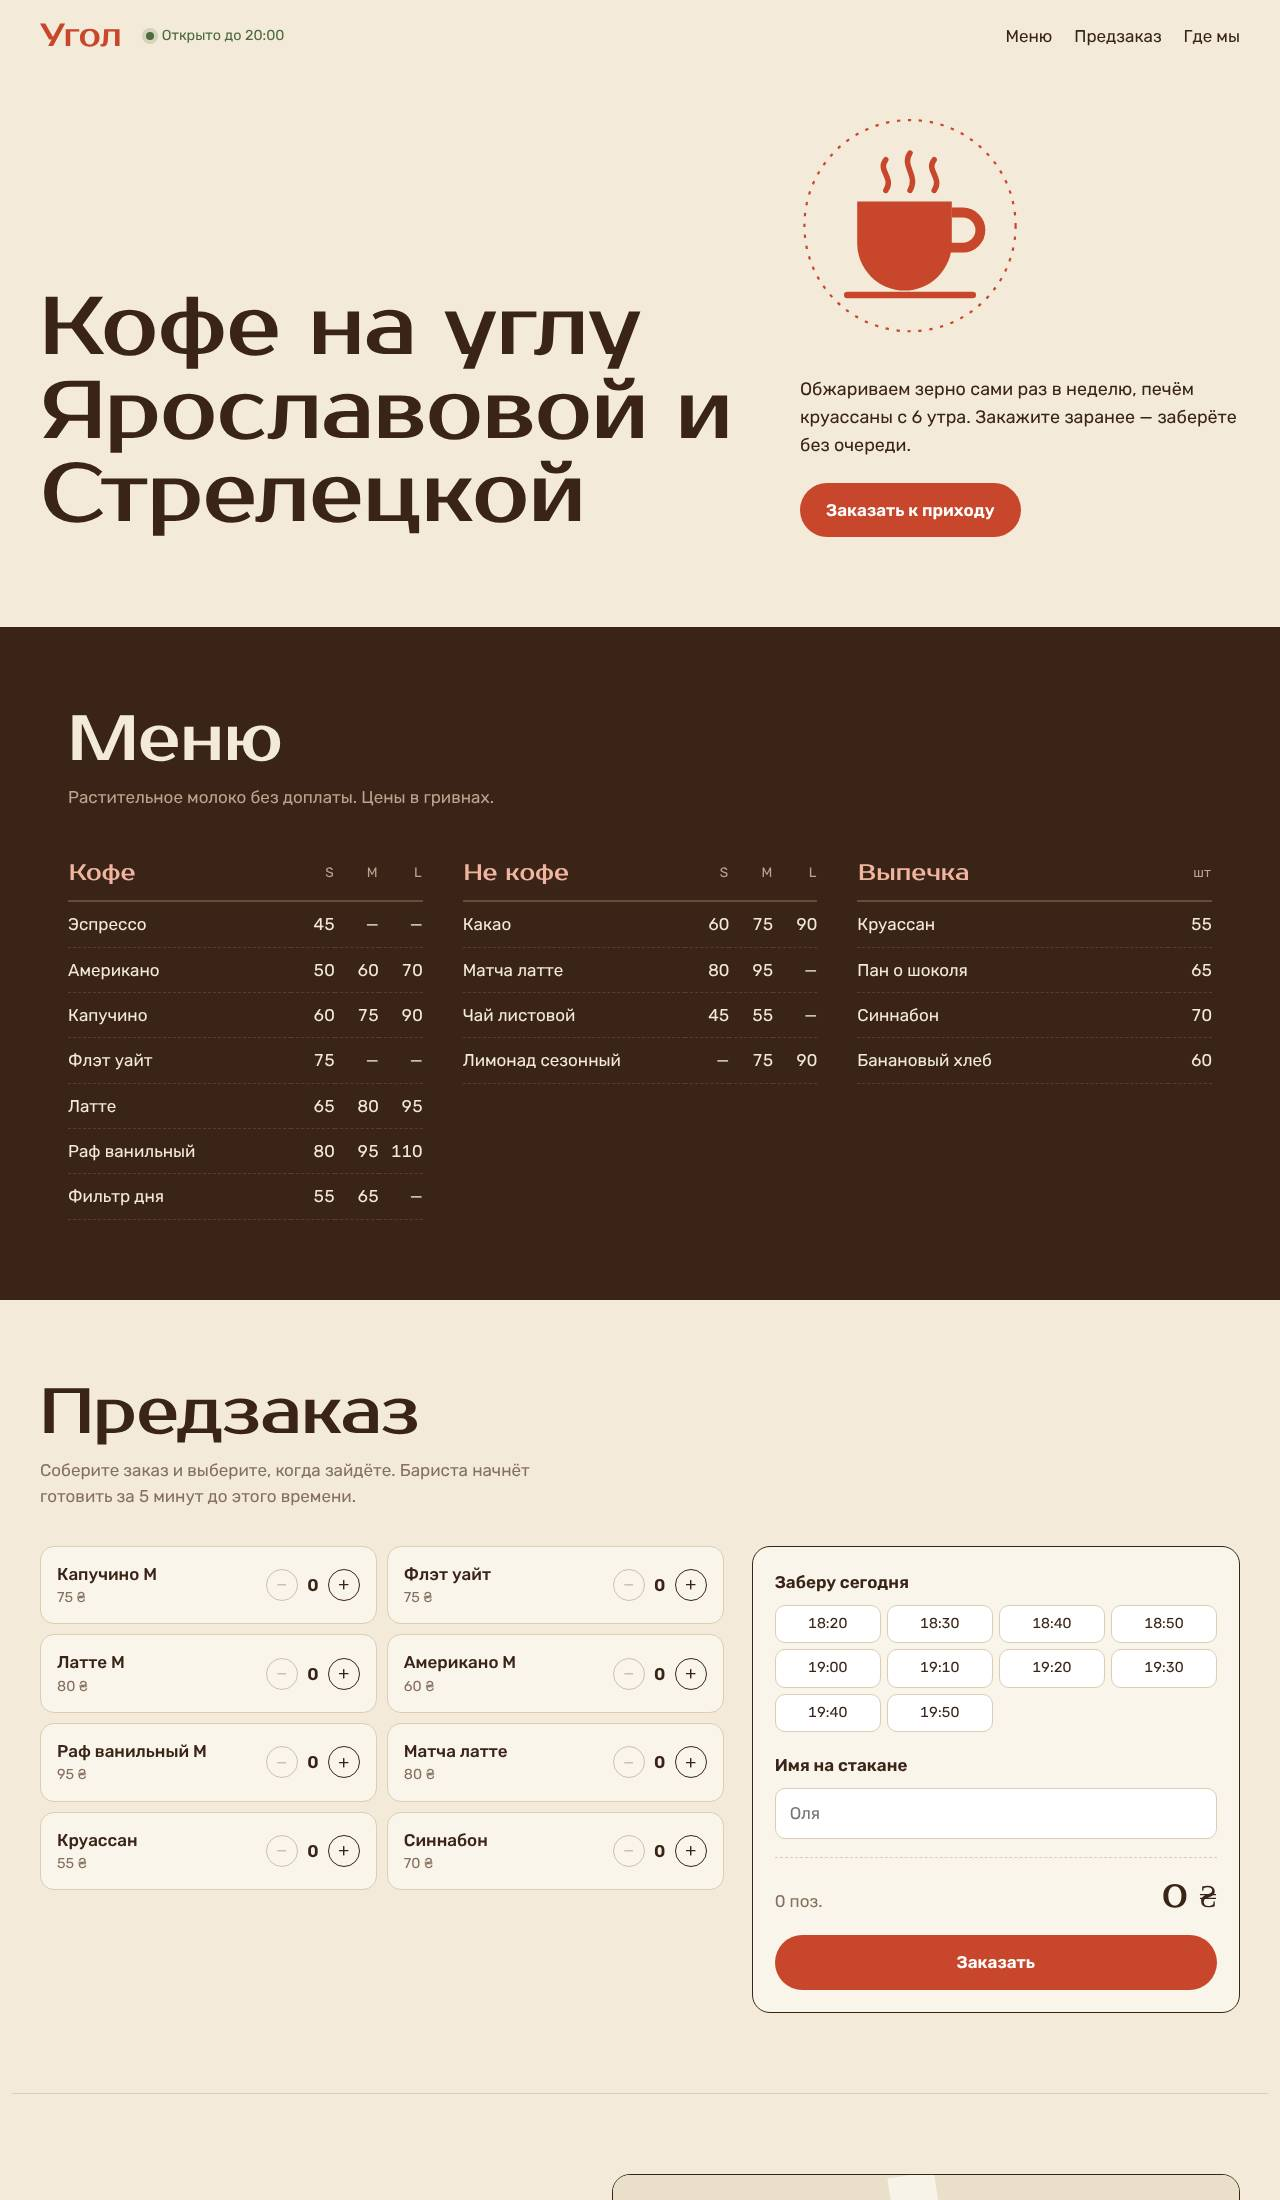
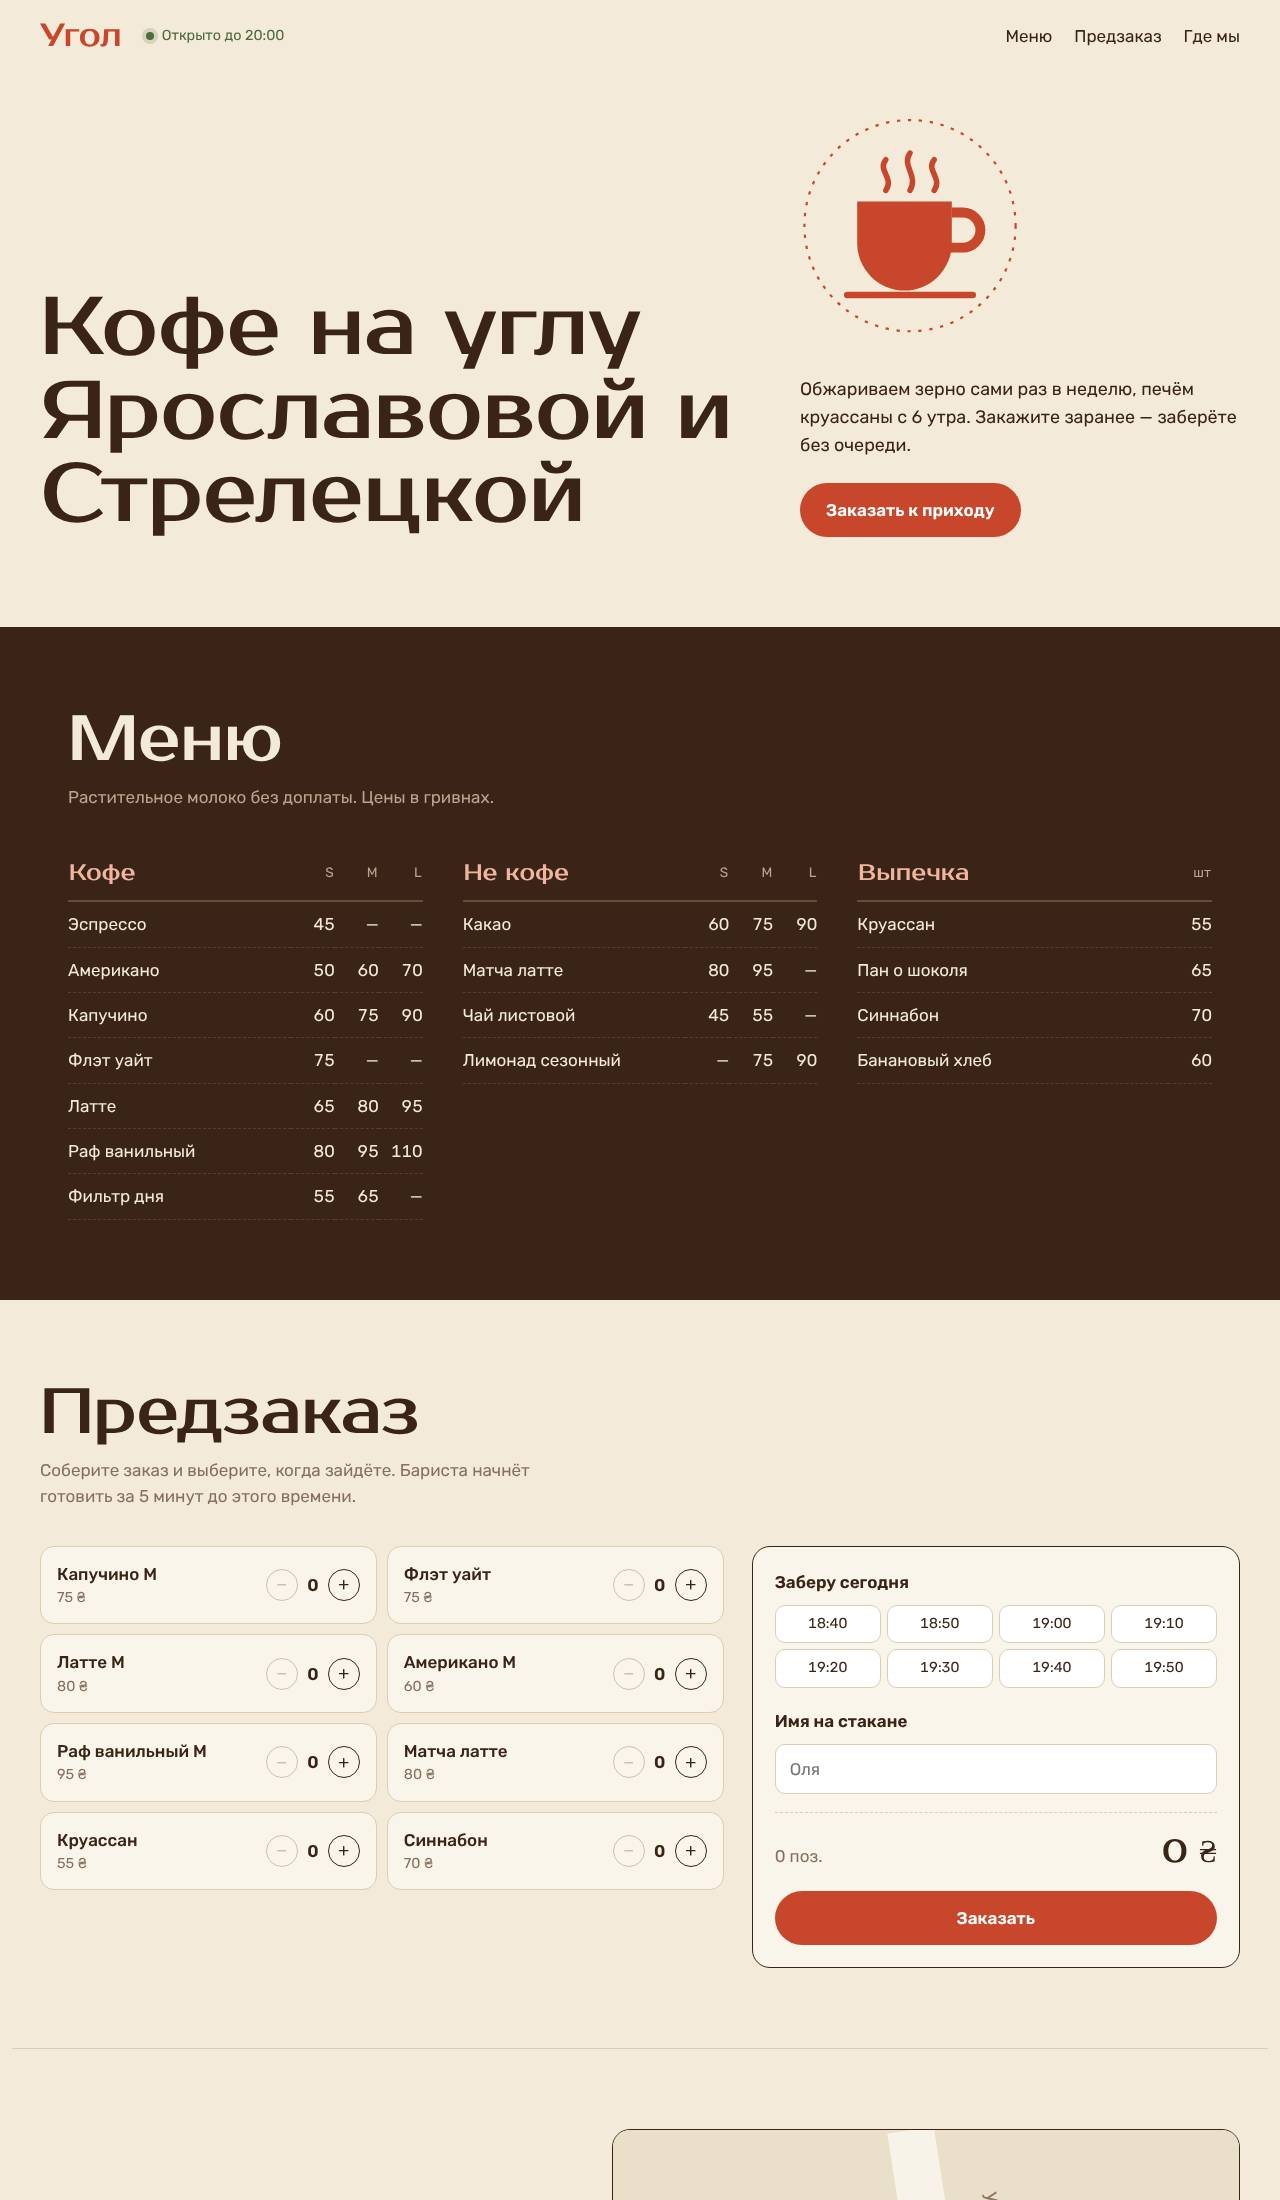
Готовность к запуску: .env.example, запасной вариант без базы, инструкция деплоя
Без Supabase форма заявки и вход не падают, а предлагают написать в Telegram.

Claude-Session: https://claude.ai/code/session_01SySj1XcUaRAcxcRqW1wABw

Changed region(s): [[0.5938, 0.7727, 0.9688, 0.9273], [0.6875, 0.9891, 0.75, 1.0]]

diff --git a/app/api/book/route.js b/app/api/book/route.js
@@ -5,10 +5,12 @@ import { fieldByColumn } from '@/lib/fields';
 import { createPending } from '@/lib/bookings';
 import { canSend, issueToken } from '@/lib/auth';
 import { sendMagicLink } from '@/lib/mailer';
+import { engineReady } from '@/lib/ready';
 
 const T = config.texts;
 
 export async function POST(req) {
+  if (!engineReady()) return NextResponse.json({ error: T.unavailable }, { status: 503 });
   const body = await req.json().catch(() => ({}));
   const { ok, errors, clean } = validate(body);
   if (!ok) return NextResponse.json({ error: T.checkFields, errors }, { status: 400 });
@@ -16,7 +18,11 @@ export async function POST(req) {
   const email = clean[fieldByColumn('email').key];
   if (!(await canSend(email))) return NextResponse.json({ error: T.rateLimited }, { status: 429 });
 
-  const res = await createPending(clean);
+  let res;
+  try { res = await createPending(clean); } catch (e) {
+    console.error(e);
+    return NextResponse.json({ error: T.unavailable }, { status: 503 });
+  }
   if (res.error) return NextResponse.json({ error: res.error }, { status: res.http });
 
   try {

diff --git a/app/api/auth/login/route.js b/app/api/auth/login/route.js
@@ -2,11 +2,13 @@ import { NextResponse } from 'next/server';
 import config from '@/engine.config';
 import { canSend, issueToken } from '@/lib/auth';
 import { sendMagicLink } from '@/lib/mailer';
+import { engineReady } from '@/lib/ready';
 
 const T = config.texts;
 const EMAIL = /^[^\s@]+@[^\s@]+\.[^\s@]{2,}$/;
 
 export async function POST(req) {
+  if (!engineReady()) return NextResponse.json({ error: T.unavailable }, { status: 503 });
   const { email: raw } = await req.json().catch(() => ({}));
   const email = String(raw || '').trim().toLowerCase();
   if (!EMAIL.test(email)) return NextResponse.json({ error: T.invalidEmail }, { status: 400 });

diff --git a/app/api/slots/route.js b/app/api/slots/route.js
@@ -1,10 +1,12 @@
 import { NextResponse } from 'next/server';
 import { busySlots } from '@/lib/bookings';
+import { engineReady } from '@/lib/ready';
 
 export async function GET(req) {
   const p = new URL(req.url).searchParams;
   const date = p.get('date') || '';
   if (!/^\d{4}-\d{2}-\d{2}$/.test(date)) return NextResponse.json({ busy: [] });
+  if (!engineReady()) return NextResponse.json({ busy: [] });
   const busy = await busySlots({ date, resource: p.get('resource') || '', excludeId: p.get('exclude') || null });
   return NextResponse.json({ busy });
 }

diff --git a/business/texts.js b/business/texts.js
@@ -63,4 +63,5 @@ export const texts = {
   notFound: 'Заявка не найдена',
   notEditable: 'Эту заявку уже нельзя изменить',
   error: 'Что-то пошло не так. Попробуйте ещё раз.',
+  unavailable: 'Онлайн-запись сейчас недоступна. Напишите нам в Telegram @vzbbme — ответим в течение часа.',
 };

diff --git a/lib/ready.js b/lib/ready.js
@@ -1,0 +1,3 @@
+// Подключён ли движок: без базы и секрета форма не падает, а предлагает написать в Telegram.
+export const engineReady = () =>
+  !!(process.env.SUPABASE_URL && process.env.SUPABASE_SERVICE_ROLE_KEY && process.env.JWT_SECRET);

diff --git a/README.md b/README.md
@@ -3,6 +3,14 @@
 Главная (`/`) — каталог проектов студии: поиск по нише (знает все ~300 ниш из 22 отраслей), фильтр по отраслям и возможностям,
 живые превью, пакеты и цены, заявка на созвон через booking engine (кабинет клиента `/profile`, CRM `/admin`).
 
+## Запуск в продакшн (Vercel)
+1. Supabase: новый проект → SQL Editor → выполнить `supabase/schema.sql`.
+2. Vercel: импортировать репозиторий, в Environment Variables добавить всё из `.env.example`
+   (`PUBLIC_BASE_URL` = адрес сайта, `JWT_SECRET` = `openssl rand -base64 32`, Gmail — пароль приложения).
+3. Deploy. Проверка: оставить заявку на главной → письмо → кабинет; войти почтой из `ADMIN_EMAIL` → `/admin`.
+
+Пока база не подключена, витрина и все демо работают, а форма заявки вежливо предлагает написать в Telegram.
+
 ## Каталог
 - `store/catalog.js` — отрасли с нишами, возможности, проекты. Новый проект = новый объект в `projects`.
 - `business/landing.js` — пакеты и цены студии, контакты. `business/theme.js` — бренд и цвета витрины.
